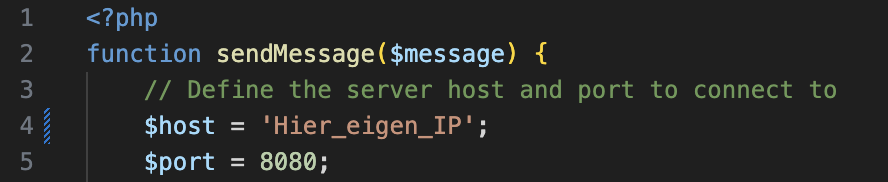
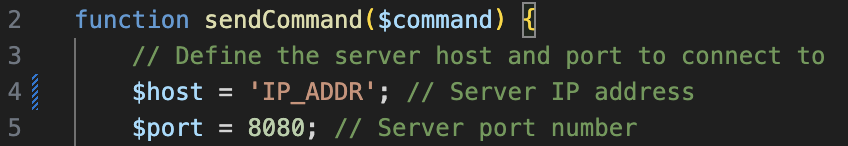
tutorial for setting up webserver

diff --git a/web/static/javascript/buttons.js b/web/static/javascript/buttons.js
@@ -1,7 +1,7 @@
 const sendCommand = (command) => {
     const data = { command };
 
-    fetch('http://172.20.10.2/api.php?action=command', {
+    fetch('http://IP_ADDR/api.php?action=command', {
         method: 'POST',
         headers: {
             'Content-Type': 'application/json'

diff --git a/web/send_command.php b/web/send_command.php
@@ -1,7 +1,7 @@
 <?php
 function sendCommand($command) {
     // Define the server host and port to connect to
-    $host = '172.20.10.2'; // Server IP address
+    $host = 'IP_ADDR'; // Server IP address
     $port = 8080; // Server port number
 
     // Create a TCP socket

diff --git a/docs/web/technical_documentation.md b/docs/web/technical_documentation.md
@@ -41,20 +41,49 @@ Firstly, the robot must be connected to the WebSocket. This is automatically don
 This POST request is received by the API. The API checks the task and calls the "send_command.php" file to transmit the task to the robot via the "websocket.php" file.
 
 ## Setup webserver
-To set up the web server, you need to clone [this](https://gitlab.fdmci.hva.nl/IoT/2023-2024-semester-2/group-project/faaxeeheeqee80)
- GitLab project. After that, you should open the project in a CLI. In the CLI, the following command needs to be executed:
+To set up the web server, we used a server with Ubuntu 20.04. On the server, we want to open ports 22, 80, and 8080. Port 22 is used for SSH, port 80 for HTTP, and port 8080 for WebSocket. This can be done as follows:
 
+1. Enable UFW:
 ```txt
-docker build --tag little-endian .
+sudo ufw enable
 ```
 
-This command builds a Docker image tagged "little-endian" using the files in the current directory. Then, the following command needs to be executed:
-
+2. Open ports 80 (HTTP), 8080, and 22 (SSH):
 ```txt
-docker run --publish 80:80 --publish 8080:8080 --detach little-endian
+sudo ufw allow 80/tcp
+sudo ufw allow 8080/tcp
+sudo ufw allow 22/tcp
 ```
 
-This command starts a Docker container with the "little-endian" image, where port 80 of the host is linked to port 80 in the container, and port 8080 of the host is linked to port 8080 in the container.
+3. Check the UFW rules to verify that the ports are open:
+```txt
+sudo ufw status
+```
+![status example](images/ufw_status.png)
+
+4. If successful, Docker can be installed. Follow [this](https://www.digitalocean.com/community/tutorials/how-to-install-and-use-docker-on-ubuntu-20-04) tutorial for installing Docker on Ubuntu. Only step 1 is required. 
+
+5. Once Docker is installed on the server, the project can be cloned from GitLab. This can be done with:
+```txt
+sudo git clone https://gitlab.fdmci.hva.nl/IoT/2023-2024-semester-2/group-project/faaxeeheeqee80.git
+```
+
+6. Log in with your Git account.
+
+7. After the project is cloned, navigate to the correct directory with:
+```txt
+cd faaxeeheeqee80
+```
+
+8. Build a Docker image tagged "little-endian" using the following command:
+```txt
+sudo docker build --tag little-endian .
+```
+
+9. Start a Docker container with the "little-endian" image, linking port 80 of the host to port 80 in the container, and port 8080 of the host to port 8080 in the container, by executing the following command:
+```txt
+sudo docker run --publish 80:80 --publish 8080:8080 --detach little-endian
+```
 
 After this, the web server is successfully set up. However, there are still a few places where the IP address of the host needs to be specified for proper communication.
 
@@ -62,4 +91,7 @@ Firstly, the send_command.php file in the /var/www/html folder needs to be edite
 
 ![web_technical](images/send_command.png)
 
-Additionally, in the folder /var/www/html/static/javascript, in the file buttons.js, the IP address of the host needs to be provided on lines 14, 51, and 88. With these steps completed, the web server is fully set up and operational.
+Additionally, in the folder /var/www/html/static/javascript, in the file buttons.js, the IP address of the host needs to be provided on line 4. With these steps completed, the web server is fully set up and operational.
+
+
+![web_technical](images/buttons.js.png)
